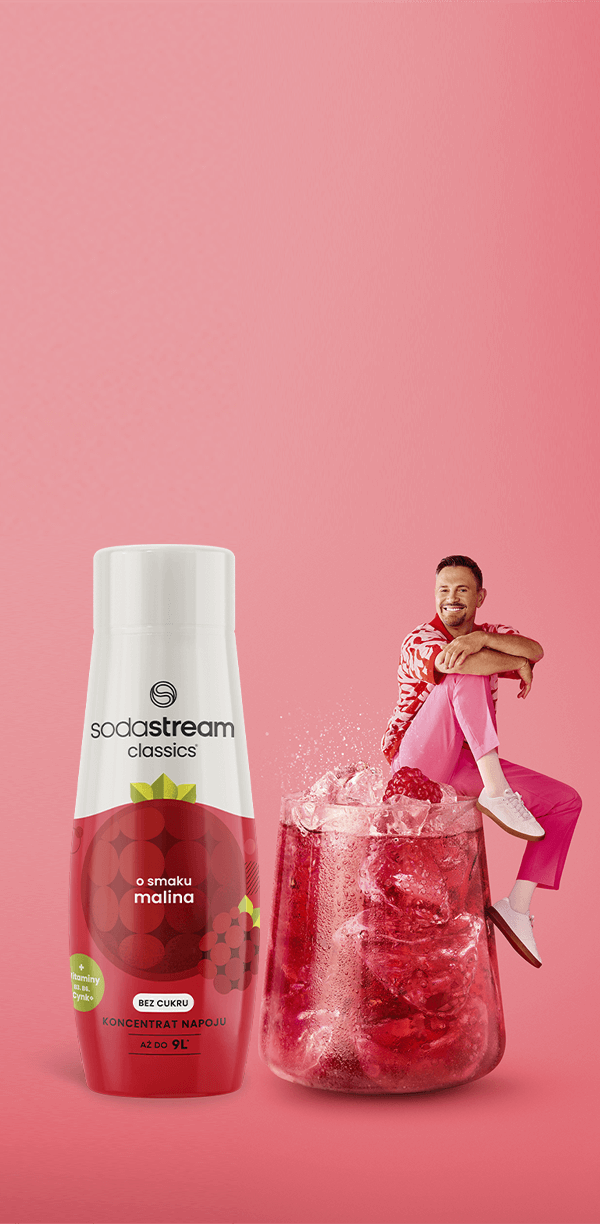
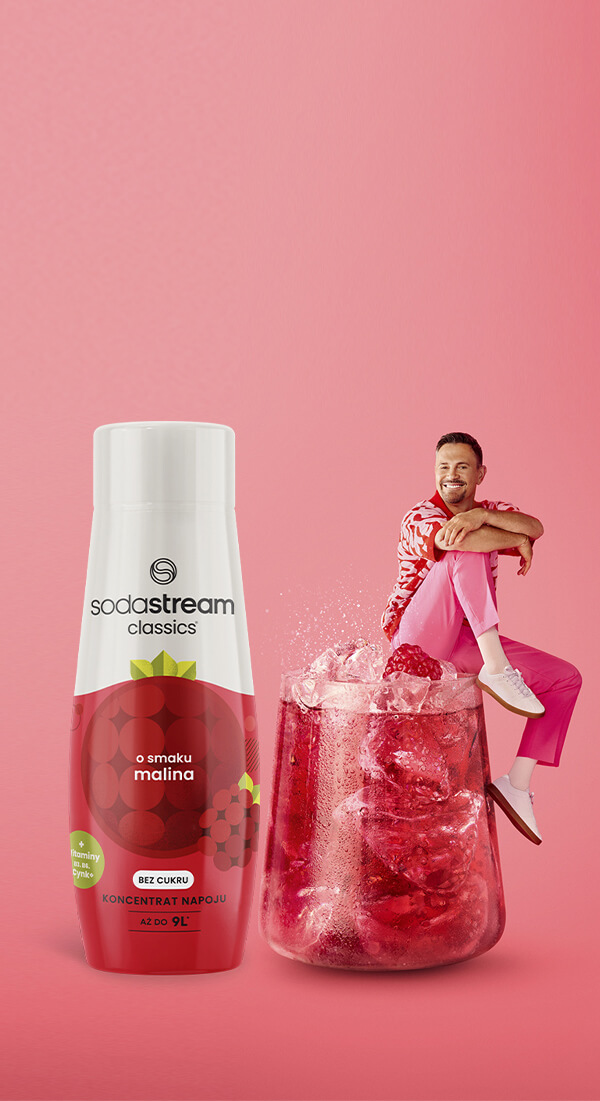
fix: styles

Changed region(s): [[0.12, 0.3706, 0.99, 0.9264], [0.15, 0.3706, 0.39, 0.4632]]

diff --git a/css/style.css b/css/style.css
@@ -53,7 +53,7 @@
   text-align: center;
 }
 #es-rc #es-rc-content .es-kv {
-  min-height: 550px;
+  min-height: 570px;
   height: 550px;
   background: url(../images/kv-m.jpg) no-repeat center center;
   background-size: cover;
@@ -77,7 +77,7 @@
 }
 #es-rc #es-rc-content .es-kv__link {
   position: absolute;
-  bottom: 13px;
+  bottom: -10px;
   left: 50%;
   transform: translate(-50%, -50%);
   width: 200px;
@@ -141,7 +141,7 @@
   flex-direction: column;
   justify-content: space-around;
   align-items: center;
-  gap: 350px;
+  gap: 375px;
 }
 #es-rc #es-rc-content .es-description__title {
   font-family: "HurmeGeometricSans3-Bold", sans-serif;
@@ -511,11 +511,8 @@
   #es-rc #es-rc-content .es-kv {
     height: 650px;
   }
-  #es-rc #es-rc-content .es-description {
-    min-height: 800px;
-  }
   #es-rc #es-rc-content .es-description__container {
-    gap: 600px;
+    gap: 510px;
   }
 }
 @media screen and (min-width: 400px) {
@@ -531,6 +528,7 @@
   }
   #es-rc #es-rc-content .es-kv__link {
     left: 32%;
+    bottom: 5px;
   }
 }
 @media screen and (min-width: 500px) {
@@ -562,7 +560,7 @@
 }
 @media screen and (min-width: 550px) {
   #es-rc #es-rc-content .es-kv {
-    height: 950px;
+    height: 975px;
     position: relative;
     z-index: 2;
   }

diff --git a/css/style.scss b/css/style.scss
@@ -94,7 +94,7 @@ $secondary: #002238;
   }
 
   .es-kv {
-    min-height: 550px;
+    min-height: 570px;
     height: 550px;
     background: url(../images/kv-m.jpg) no-repeat center center;
     background-size: cover;
@@ -121,7 +121,7 @@ $secondary: #002238;
 
     &__link {
       position: absolute;
-      bottom: 13px;
+      bottom: -10px;
       left: 50%;
       transform: translate(-50%, -50%);
       width: 200px;
@@ -195,7 +195,7 @@ $secondary: #002238;
       flex-direction: column;
       justify-content: space-around;
       align-items: center;
-      gap: 350px;
+      gap: 375px;
     }
 
     &__title {
@@ -630,10 +630,8 @@ $secondary: #002238;
     }
 
     .es-description {
-      min-height: 800px;
-
       &__container {
-        gap: 600px;
+        gap: 510px;
       }
     }
   }
@@ -653,6 +651,7 @@ $secondary: #002238;
 
       &__link {
         left: 32%;
+        bottom: 5px;
       }
     }
   }
@@ -691,7 +690,7 @@ $secondary: #002238;
 
   @media screen and (min-width: 550px) {
     .es-kv {
-      height: 950px;
+      height: 975px;
       position: relative;
       z-index: 2;
 
